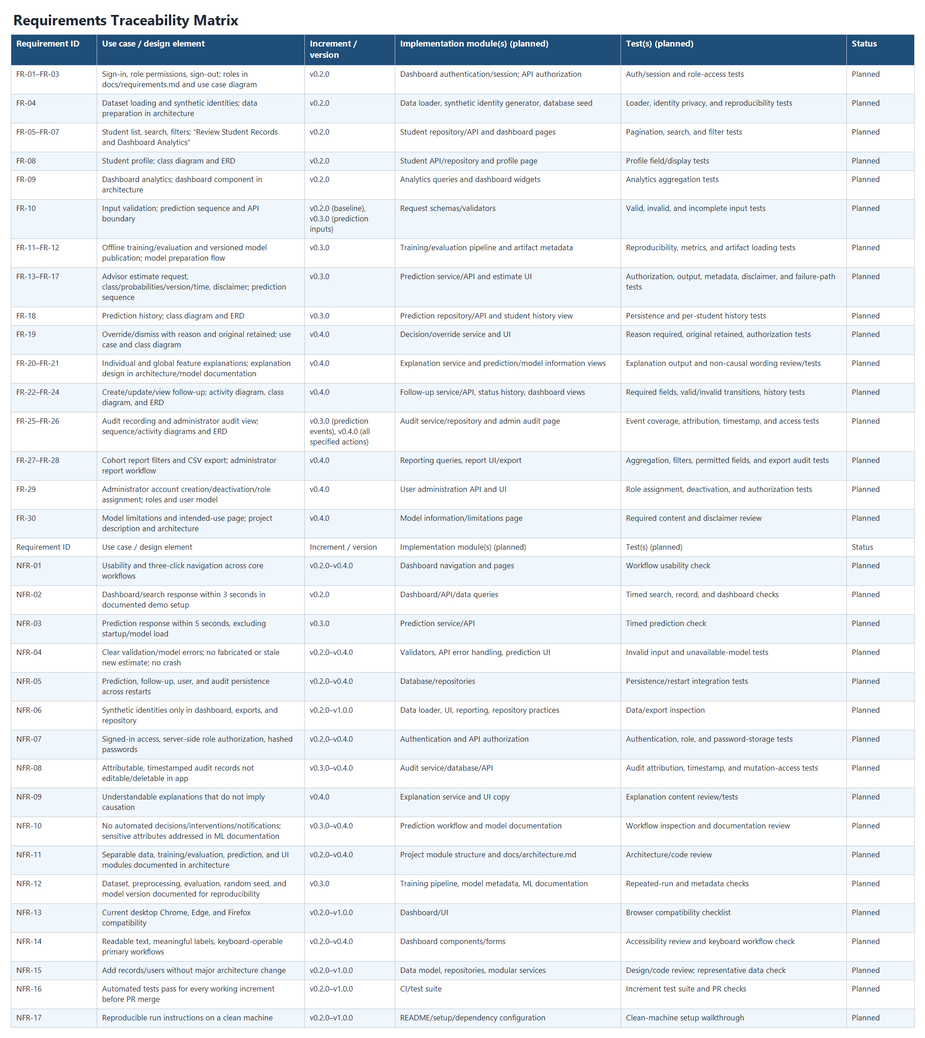
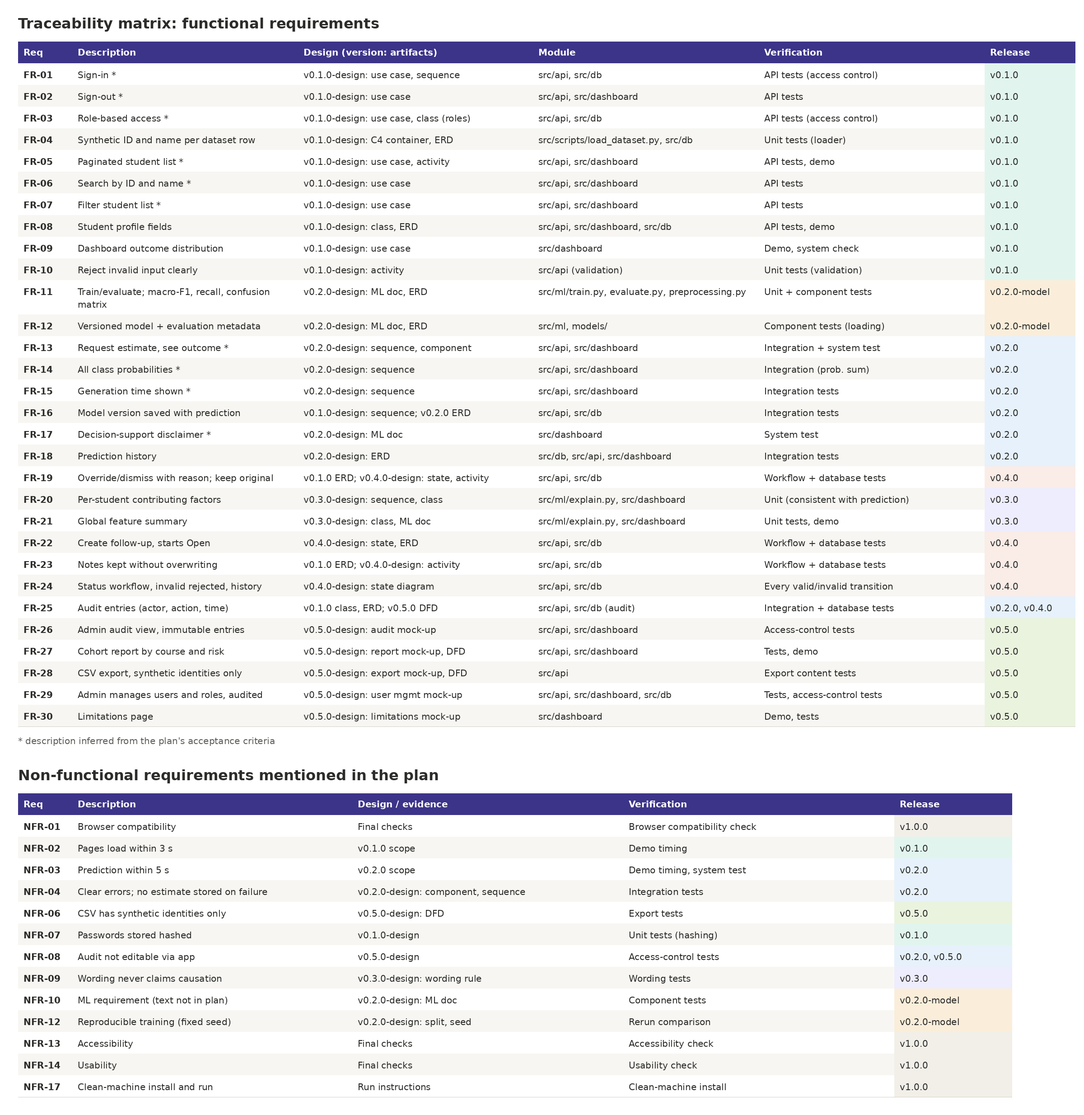
Incremental development and traceability matrix fixed

diff --git a/docs/incremental_development_plan.md b/docs/incremental_development_plan.md
@@ -1,48 +1,136 @@
 # Incremental Development Plan
 
-**Project:** AI Student Success and Dropout-Risk Support System (Group 02)  
-**Planning basis:** project brief, `docs/requirements.md`, `docs/architecture.md`, `docs/use_cases.md`, and the existing UML/design artifacts.
+Plan table
 
-**Visual plan:** [Mermaid diagram source](../uml/incremental_development_plan.mmd).
-
-This is a staged implementation plan. The design increment is already represented by committed planning/design artifacts; application increments below are planned and must not be marked complete until implemented and reviewed. Each implementation increment is expected to have automated tests that pass before its pull request is merged (NFR-16).
-
-| Version | Type | Capacity / Scope | Deliverable / Evidence | Requirements / Design Links |
+| Version | Type | Capability / Scope | Deliverable / Evidence | Requirements / Design Links |
 |---|---|---|---|---|
-| v0.1.0-design | Design baseline | Define scope, actors, requirements, architecture, data model, key workflows, and initial traceability before implementation. | `docs/project_description.md`, `docs/requirements.md`, `docs/architecture.md`, `docs/use_cases.md`; C4, use case, sequence, activity, class, and ERD sources under `uml/`. | FR-01–FR-30; NFR-01, NFR-04–NFR-12, NFR-15–NFR-17; `docs/traceability_matrix.md`; `uml/c4_context.drawio`, `uml/c4_container.drawio`, `uml/use_case.puml`, `uml/sequence_diagram.puml`, `uml/activity_diagram.puml`, `uml/class_diagram.drawio`, `uml/erd.drawio`. |
-| v0.2.0-data-dashboard | Working increment 1: student data and dashboard | Establish runnable app, documented setup, demo sign-in/roles, synthetic data loading, student list/search/filter/profile, and baseline outcome analytics. No live student data. | Runnable dashboard; documented data preparation/loading script and synthetic identity generation; database schema and seed/demo data; automated tests and setup notes. | FR-01–FR-10; NFR-01, NFR-02, NFR-05–NFR-07, NFR-11, NFR-13–NFR-17; `docs/architecture.md` dashboard/API/database; class diagram and ERD; use case “Review Student Records and Dashboard Analytics.” |
-| v0.3.0-prediction | Working increment 2: prediction service | Reproducible offline training/evaluation, versioned model publication, advisor-only estimate request, probabilities, generation time, model version, history, and visible decision-support notice. Handle invalid input or unavailable model safely. | Training/evaluation scripts and documented dataset/preprocessing/seed; evaluation report (macro-F1, per-class recall, confusion matrix); versioned model metadata; prediction API/UI; persisted history; automated tests. | FR-11–FR-18; NFR-03–NFR-04, NFR-07–NFR-08, NFR-10–NFR-12, NFR-16–NFR-17; prediction sequence diagram; `docs/architecture.md` model preparation and prediction service. |
-| v0.4.0-support-reporting | Working increment 3: explanations, follow-up, administration, and reports | Individual and global explanations; advisor override/dismiss with reason; follow-up creation/status/history; administrator cohort reports, CSV export, account management, audit log, and limitations page. | End-to-end workflows; documented explanation method and limitations; persisted audit/follow-up records; report export; role checks; automated tests and demonstration evidence. | FR-19–FR-30; NFR-01, NFR-04–NFR-10, NFR-13–NFR-17; use cases and activity diagram; class diagram/ERD; `docs/architecture.md`. |
-| v1.0.0-course-demo | Release / integration | Integrate the three working increments, resolve defects, verify traceability, prepare reproducible clean-machine setup and final demonstration/report. | Tagged release; final report and test evidence; installation/run instructions; reviewed requirements-to-design/code/test traceability; demo using synthetic identities only. | All FR-01–FR-30 and NFR-01–NFR-17; all design artifacts; `docs/testing.md`, `docs/report.md`, README. |
+| v0.1.0-design | Design | Context, containers, roles, data model, use cases | C4 L1/L2, use cases, sequence, activity, class, ERD; prompt records | FR-01..FR-10, FR-25; [uml/](../uml/), [use_cases.md](use_cases.md) |
+| v0.1.0 | Working | Data loading, synthetic identities, sign-in and roles, student list, search, filter, profile, dashboard charts | Code, unit and API tests, demo | FR-01..FR-10; `src/scripts`, `src/db`, `src/api`, `src/dashboard`; `tests/` |
+| v0.2.0-design | Design | ML pipeline and prediction service | ML documentation, component and sequence updates, ERD update | FR-11..FR-18, NFR-10, NFR-12; `ml_documentation.md`, `uml/` |
+| v0.2.0-model | Working | Training, evaluation, versioned model file and metadata | Model files, evaluation report, unit and component tests | FR-11, FR-12, NFR-10, NFR-12; `src/ml`, `models/`; `tests/` |
+| v0.2.0 | Working | Prediction API, estimate display, probabilities, model version, disclaimer, history, audit foundation | Code, integration tests, demo | FR-13..FR-18, FR-25 (start), NFR-03, NFR-04; `src/api`, `src/dashboard`; `tests/` |
+| v0.3.0-design | Design | Explanation module | Sequence and class updates, method choice | FR-20, FR-21, NFR-09; `uml/` |
+| v0.3.0 | Working | Per-student contributing factors, global feature summary | Code, tests, demo | FR-20, FR-21, NFR-09; `src/ml/explain.py`; `tests/` |
+| v0.4.0-design | Design | Follow-up workflow and estimate override | State diagram, activity update, ERD update | FR-19, FR-22..FR-24; `uml/` |
+| v0.4.0 | Working | Follow-up actions, notes, status workflow, override or dismiss, audit of changes | Code, workflow and database tests, demo | FR-19, FR-22..FR-25; `src/api`, `src/db`; `tests/` |
+| v0.5.0-design | Design | Reports, export, user management, limitations page | Report mock-ups, DFD, deployment view | FR-25..FR-30; `uml/` |
+| v0.5.0 | Working | Cohort reports, CSV export, user accounts, audit log view, limitations page | Code, tests, demo | FR-25..FR-30; `src/api`, `src/dashboard`; `tests/` |
+| v1.0.0 | Final | Integrated, documented release | Final diagrams, end-to-end tests, run instructions, report | All FR and NFR; full traceability matrix |
 
-## Increment acceptance and status
+## Increment details
 
-- **Current status:** design baseline documented; implementation increments are planned. This plan does not claim that the application increments have been implemented.
-- For each working increment, update the traceability matrix with actual module paths and test identifiers, run its automated tests, record review findings, and link the merged work or release evidence.
-- Keep the raw UCI dataset and real student personal data out of the repository. Use only synthetic identities in the application and demonstration outputs.
-- Keep estimates as decision support. They must not trigger automated student decisions, interventions, or notifications.
-- If implementation scope or architecture changes, update this plan, requirements-to-design links, and related diagrams together.
+### v0.1.0-design: Context, containers, roles, data model, use cases
 
+- **Tools:** draw.io, PlantUML, the coding agent for drafting (prompts recorded).
+- **Deliverables:** `uml/c4_context.drawio`, `uml/c4_container.drawio`, `uml/use_case.puml`, `uml/sequence_diagram.puml`, `uml/activity_diagram.puml`, `uml/class_diagram.drawio`, `uml/erd.drawio`, `docs/use_cases.md`, `docs/architecture.md`, `prompts/v0.1.0-design-*.md`.
+- **Acceptance criteria:**
+  - Class diagram and ERD show **multiplicities** on every association, and the enumerations are defined.
+  - Prediction stores the **overridden outcome** (FR-19), notes can be kept without overwriting (FR-23), and the model's confusion matrix has a field (FR-11).
+  - Use case diagram includes the Data/ML Engineer (development-time) with the load-dataset and train-and-publish use cases, or `use_cases.md` states why not.
+  - Sequence diagram saves the model version with each prediction (FR-16).
+  - `traceability_matrix.md` links FR-01 to FR-30 to design elements.
+  - Prompt records and AI log rows exist, with a reviewer other than the prompt author.
+  - Pull request reviewed and merged, and `v0.1.0-design` is tagged on the merged commit.
 
+### v0.1.0: Data, identities, sign-in, records, dashboard basics
+- **Tools:** Coding agent, Python, SQLite, FastAPI, Streamlit, pytest.
+- **Deliverables:** database schema creation, `src/scripts/load_dataset.py`, authentication and role checks, student list, search, filter, profile, summary charts, `prompts/v0.1.0-*.md`.
+- **Acceptance criteria:**
+  - The loading script reads the UCI CSV and creates one student record per row with a synthetic ID and name (FR-04). The raw dataset is not committed.
+  - Sign-in, sign-out, and role-based access work, and passwords are stored hashed (FR-01 to FR-03, NFR-07).
+  - List is paginated, search works by ID and name, and filters work (FR-05 to FR-07).
+  - Profile shows enrollment, academic, and demographic fields (FR-08). Dashboard shows outcome distribution (FR-09).
+  - Invalid input is rejected with a clear message (FR-10).
+  - Unit tests (validation, password hashing, loader) and API tests (access control) pass.
+  - Pages load within 3 seconds in the demo setup (NFR-02).
 
-## Mermaid Diagram
+### v0.2.0-design: ML pipeline and prediction service
+- **Tools:** draw.io or PlantUML, `docs/ml_documentation.md`.
+- **Deliverables:** `docs/ml_documentation.md` (dataset and license, target, preprocessing, split and validation strategy, metrics, how predictions are exposed, handling of sensitive attributes), updated component and sequence diagrams, ERD update (model version metadata).
+- **Acceptance criteria:**
+  - ML documentation covers every item in Section 5.5 of the course instructions.
+  - Documented choice of baseline and stronger model, stratified split, random seed, and metrics (macro-F1, per-class recall, confusion matrix).
+  - Handling of sensitive attributes (gender, nationality, marital status, age at enrollment) is stated.
+  - Diagrams show where the model is loaded and how failures are reported (NFR-04).
 
-The following flowchart summarizes the planned increments. The release and integration stage follows the three working increments.
+### v0.2.0-model: Trained and evaluated model
 
-```mermaid
-flowchart LR
-    design["v0.1.0 — Design baseline<br/><br/>Scope: requirements, architecture, data model, workflows<br/><br/>Evidence: project docs, C4/UML, class model, ERD<br/><br/>FR-01–FR-30; selected NFRs"]
-    dashboard["v0.2.0 — Student data and dashboard<br/><br/>Scope: demo roles, synthetic records, search, filters, profiles, analytics<br/><br/>Evidence: dashboard, loader, schema, setup, automated tests<br/><br/>FR-01–FR-10; NFR-01, 02, 05–07, 11, 13–17"]
-    prediction["v0.3.0 — Prediction service<br/><br/>Scope: reproducible model, versioned estimates, probabilities, history, disclaimer<br/><br/>Evidence: training/evaluation, metrics, model metadata, UI/API, tests<br/><br/>FR-11–FR-18; NFR-03–04, 07–08, 10–12, 16–17"]
-    support["v0.4.0 — Explanations, follow-up, and reporting<br/><br/>Scope: explanations, override, follow-up, audit, reports, CSV, users, limitations<br/><br/>Evidence: end-to-end workflows, persisted records, role checks, tests<br/><br/>FR-19–FR-30; NFR-01, 04–10, 13–17"]
-    release["v1.0.0 — Integrated course demo<br/><br/>Scope: integration, defect fixes, traceability, clean-machine setup, final demo<br/><br/>Evidence: tagged release, report, test results, setup instructions<br/><br/>All FR-01–FR-30 and NFR-01–NFR-17"]
-    guardrails["Planning guardrails<br/>v0.2.0–v1.0.0 are planned, not completed<br/>Synthetic identities only; raw UCI data stays out of Git<br/>Estimates support human review only"]
-    design --> dashboard --> prediction --> support --> release
-    release -.-> guardrails
-    classDef increment fill:#438DD5,stroke:#3C7FC0,color:#FFFFFF,stroke-width:2px;
-    classDef final fill:#08427B,stroke:#073B6F,color:#FFFFFF,stroke-width:2px;
-    classDef note fill:#F4F4F4,stroke:#888888,color:#333333,stroke-width:1px;
-    class design,dashboard,prediction,support increment;
-    class release final;
-    class guardrails note;
-```
+- **Tools:** coding agent, scikit-learn, joblib, pytest.
+- **Deliverables:** `src/ml/preprocessing.py`, `train.py`, `evaluate.py`, versioned model file and metadata in `models/`, evaluation report (in `docs/ml_documentation.md` or `docs/model_evaluation.md`), `prompts/v0.2.0-model-*.md`.
+- **Acceptance criteria:**
+  - One command trains and evaluates the models with a fixed seed, and reruns give the same metrics (NFR-12).
+  - Baseline and stronger model are compared, with macro-F1, per-class recall (especially Dropout), and the confusion matrix reported (FR-11).
+  - The published model has a version ID and stored evaluation metadata (FR-12).
+  - Unit tests (preprocessing) and component tests (model loading, prediction output shape and probability sum) pass.
+
+### v0.2.0: Prediction API, estimate display, audit foundation
+
+- **Tools:** coding agent, FastAPI, Streamlit, pytest.
+- **Deliverables:** prediction endpoint and service, estimate screen, prediction history, audit log table and writer, `prompts/v0.2.0-*.md`.
+- **Acceptance criteria:**
+  - Advisor can request an estimate and see the outcome, all class probabilities, model version, generation time, and the decision-support disclaimer on every estimate (FR-13 to FR-17).
+  - Each estimate is stored and shown in the student's prediction history (FR-18).
+  - Prediction requests write an audit entry with actor, action, and time (FR-25, NFR-08).
+  - If input is invalid or the model is unavailable, the user sees a clear error and no estimate is stored or shown as new (NFR-04).
+  - A prediction completes within 5 seconds in the demo setup (NFR-03).
+  - Integration tests (API with database and model) and a system test of the main scenario pass.
+
+### v0.3.0-design: Explanation module
+
+- **Tools:** draw.io or PlantUML.
+- **Deliverables:** updated sequence and class diagrams, chosen explanation method (SHAP or feature importance) and its justification in `ml_documentation.md`.
+- **Acceptance criteria:** the explanation call is in the sequence diagram, the explainer class and its relation to the model are in the class diagram, and the wording rule from NFR-09 is stated.
+
+### v0.3.0: Contributing factors and global summary
+
+- **Tools:** coding agent, SHAP or scikit-learn, pytest.
+- **Deliverables:** `src/ml/explain.py`, factors on the student estimate screen, global feature summary page, `prompts/v0.3.0-*.md`.
+- **Acceptance criteria:**
+  - Each estimate shows its main contributing factors in plain language (FR-20, NFR-09).
+  - A global summary of the most important features is available (FR-21).
+  - Explanation output is consistent with the prediction it accompanies (tested).
+  - The wording does not claim that a factor causes the outcome.
+
+### v0.4.0-design: Follow-up workflow and override
+
+- **Tools:** draw.io or PlantUML.
+- **Deliverables:** state diagram (Open, In progress, Resolved, Closed), updated activity diagram, ERD and class updates if needed.
+- **Acceptance criteria:** allowed and rejected transitions are shown, override and dismissal flow is shown, and the original estimate stays on record.
+
+### v0.4.0: Follow-ups, notes, override, audit of changes
+
+- **Tools:** coding agent, FastAPI, SQLite, pytest.
+- **Deliverables:** follow-up create, update, and view; status history; override and dismiss with reason; audit entries; `prompts/v0.4.0-*.md`.
+- **Acceptance criteria:**
+  - Advisor creates a follow-up with type, note, assignee, and date, starting as Open, optionally linked to a prediction (FR-22).
+  - Notes and status changes follow the allowed transitions, invalid transitions are rejected, and history is kept (FR-23, FR-24).
+  - Override or dismissal requires a reason and keeps the original estimate (FR-19).
+  - Follow-up and override changes write audit entries (FR-25).
+  - Workflow tests (every valid and invalid transition) and database tests pass.
+
+### v0.5.0-design: Reports, export, user management, limitations
+
+- **Tools:** draw.io, PlantUML, mock-ups.
+- **Deliverables:** report mock-ups, DFD from dataset to prediction to report, deployment view, updated use cases if needed.
+- **Acceptance criteria:** mock-ups cover cohort report, export, user management, audit view, and limitations page, and the DFD shows no path where an estimate triggers an action automatically.
+
+### v0.5.0: Reports, export, accounts, audit view, limitations page
+- **Tools:** coding agent, FastAPI, Streamlit, pytest.
+- **Deliverables:** cohort report with filters, CSV export, user account management, audit log view, model limitations page, `prompts/v0.5.0-*.md`.
+- **Acceptance criteria:**
+  - Cohort report filters by course and risk level (FR-27). CSV export contains only synthetic identities (FR-28, NFR-06).
+  - Administrator can create, deactivate, and assign roles (FR-29), and these changes are audited.
+  - Administrator can view the audit log, and entries cannot be edited or deleted through the application (FR-26, NFR-08).
+  - Limitations page shows intended use, performance, known limitations, and the disclaimer (FR-30).
+  - Advisors cannot reach administrator functions (tested).
+
+### v1.0.0: Final integrated release
+- **Tools:** pytest, Pandoc (or another converter) for the PDF report.
+- **Deliverables:** final diagrams and rendered images, complete `testing.md`, `ai_development_log.md`, and `traceability_matrix.md`, run instructions, `report.md`, `se_report_group_02.pdf`.
+- **Acceptance criteria:**
+  - All selected requirements are implemented, and the main use cases work end to end.
+  - Diagrams match the final architecture and code.
+  - Every requirement traces to design, module, and test.
+  - Installation and run instructions work on a clean machine (NFR-17).
+  - Browser compatibility, accessibility, and usability checks are done (NFR-01, NFR-13, NFR-14).
+  - Repository is tagged `v1.0.0`.

diff --git a/docs/traceability_matrix.md b/docs/traceability_matrix.md
@@ -1,51 +1,72 @@
-# Requirements Traceability Matrix
+# Traceability Matrix
 
-**Project:** AI Student Success and Dropout-Risk Support System (Group 02)  
-**Source of truth:** requirement IDs and wording in `docs/requirements.md`; design links refer to current documents/diagrams. Planned module and test names are targets, not claims of implemented code. Replace them with actual paths and test IDs as implementation proceeds.
+Derived from the Incremental Development Plan. The plan only gives requirement **ranges** for some items (for example FR-13 to FR-17), so individual descriptions marked with `*` are inferred from the acceptance criteria. Replace them with the exact wording from your requirements document. Test entries are planned test types from the plan, not file names; fill in real test IDs as you write them.
 
 ## Functional requirements
 
-| Requirement ID | Use case / design element | Increment / version | Implementation module(s) (planned) | Test(s) (planned) | Status |
+| Req | Description | Design version / artifacts | Implementation (module) | Verification (planned test) | Release |
 |---|---|---|---|---|---|
-| FR-01–FR-03 | Sign-in, role permissions, sign-out; roles in `docs/requirements.md` and use case diagram | v0.2.0 | Dashboard authentication/session; API authorization | Auth/session and role-access tests | Planned |
-| FR-04 | Dataset loading and synthetic identities; data preparation in architecture | v0.2.0 | Data loader, synthetic identity generator, database seed | Loader, identity privacy, and reproducibility tests | Planned |
-| FR-05–FR-07 | Student list, search, filters; “Review Student Records and Dashboard Analytics” | v0.2.0 | Student repository/API and dashboard pages | Pagination, search, and filter tests | Planned |
-| FR-08 | Student profile; class diagram and ERD | v0.2.0 | Student API/repository and profile page | Profile field/display tests | Planned |
-| FR-09 | Dashboard analytics; dashboard component in architecture | v0.2.0 | Analytics queries and dashboard widgets | Analytics aggregation tests | Planned |
-| FR-10 | Input validation; prediction sequence and API boundary | v0.2.0 (baseline), v0.3.0 (prediction inputs) | Request schemas/validators | Valid, invalid, and incomplete input tests | Planned |
-| FR-11–FR-12 | Offline training/evaluation and versioned model publication; model preparation flow | v0.3.0 | Training/evaluation pipeline and artifact metadata | Reproducibility, metrics, and artifact loading tests | Planned |
-| FR-13–FR-17 | Advisor estimate request, class/probabilities/version/time, disclaimer; prediction sequence | v0.3.0 | Prediction service/API and estimate UI | Authorization, output, metadata, disclaimer, and failure-path tests | Planned |
-| FR-18 | Prediction history; class diagram and ERD | v0.3.0 | Prediction repository/API and student history view | Persistence and per-student history tests | Planned |
-| FR-19 | Override/dismiss with reason and original retained; use case and class diagram | v0.4.0 | Decision/override service and UI | Reason required, original retained, authorization tests | Planned |
-| FR-20–FR-21 | Individual and global feature explanations; explanation design in architecture/model documentation | v0.4.0 | Explanation service and prediction/model information views | Explanation output and non-causal wording review/tests | Planned |
-| FR-22–FR-24 | Create/update/view follow-up; activity diagram, class diagram, and ERD | v0.4.0 | Follow-up service/API, status history, dashboard views | Required fields, valid/invalid transitions, history tests | Planned |
-| FR-25–FR-26 | Audit recording and administrator audit view; sequence/activity diagrams and ERD | v0.3.0 (prediction events), v0.4.0 (all specified actions) | Audit service/repository and admin audit page | Event coverage, attribution, timestamp, and access tests | Planned |
-| FR-27–FR-28 | Cohort report filters and CSV export; administrator report workflow | v0.4.0 | Reporting queries, report UI/export | Aggregation, filters, permitted fields, and export audit tests | Planned |
-| FR-29 | Administrator account creation/deactivation/role assignment; roles and user model | v0.4.0 | User administration API and UI | Role assignment, deactivation, and authorization tests | Planned |
-| FR-30 | Model limitations and intended-use page; project description and architecture | v0.4.0 | Model information/limitations page | Required content and disclaimer review | Planned |
+| FR-01 | Sign-in * | v0.1.0-design: `use_case.puml`, `sequence_diagram.puml`, `use_cases.md` | `src/api`, `src/db` | API tests (access control) | v0.1.0 |
+| FR-02 | Sign-out * | v0.1.0-design: `use_case.puml`, `use_cases.md` | `src/api`, `src/dashboard` | API tests | v0.1.0 |
+| FR-03 | Role-based access * | v0.1.0-design: `use_case.puml`, `class_diagram.drawio` (roles, enums) | `src/api`, `src/db` | API tests (access control) | v0.1.0 |
+| FR-04 | One student record per dataset row with synthetic ID and name | v0.1.0-design: `c4_container.drawio`, `erd.drawio` | `src/scripts/load_dataset.py`, `src/db` | Unit tests (loader) | v0.1.0 |
+| FR-05 | Paginated student list * | v0.1.0-design: `use_case.puml`, `activity_diagram.puml` | `src/api`, `src/dashboard` | API tests, demo | v0.1.0 |
+| FR-06 | Search by ID and name * | v0.1.0-design: `use_case.puml` | `src/api`, `src/dashboard` | API tests | v0.1.0 |
+| FR-07 | Filter student list * | v0.1.0-design: `use_case.puml` | `src/api`, `src/dashboard` | API tests | v0.1.0 |
+| FR-08 | Student profile (enrollment, academic, demographic fields) | v0.1.0-design: `class_diagram.drawio`, `erd.drawio` | `src/api`, `src/dashboard`, `src/db` | API tests, demo | v0.1.0 |
+| FR-09 | Dashboard outcome distribution | v0.1.0-design: `use_case.puml` | `src/dashboard` | Demo, system check | v0.1.0 |
+| FR-10 | Reject invalid input with clear message | v0.1.0-design: `activity_diagram.puml` | `src/api` (validation) | Unit tests (validation) | v0.1.0 |
+| FR-11 | Train and evaluate models; macro-F1, per-class recall, confusion matrix | v0.2.0-design: `ml_documentation.md`, `erd.drawio` (confusion matrix field) | `src/ml/train.py`, `evaluate.py`, `preprocessing.py` | Unit tests (preprocessing), component tests | v0.2.0-model |
+| FR-12 | Versioned model file with stored evaluation metadata | v0.2.0-design: `ml_documentation.md`, ERD update (model version metadata) | `src/ml`, `models/` | Component tests (model loading) | v0.2.0-model |
+| FR-13 | Advisor requests an estimate and sees the outcome * | v0.2.0-design: `sequence_diagram.puml`, component diagram | `src/api` (prediction endpoint), `src/dashboard` | Integration tests, system test | v0.2.0 |
+| FR-14 | All class probabilities shown * | v0.2.0-design: `sequence_diagram.puml` | `src/api`, `src/dashboard` | Integration tests (probability sum) | v0.2.0 |
+| FR-15 | Generation time shown * | v0.2.0-design: `sequence_diagram.puml` | `src/api`, `src/dashboard` | Integration tests | v0.2.0 |
+| FR-16 | Model version saved and shown with each prediction | v0.1.0-design: `sequence_diagram.puml`; v0.2.0-design: ERD update | `src/api`, `src/db` | Integration tests | v0.2.0 |
+| FR-17 | Decision-support disclaimer on every estimate * | v0.2.0-design: `ml_documentation.md` | `src/dashboard` | System test | v0.2.0 |
+| FR-18 | Estimates stored and shown in prediction history | v0.2.0-design: `erd.drawio` | `src/db`, `src/api`, `src/dashboard` | Integration tests | v0.2.0 |
+| FR-19 | Override or dismiss estimate with reason; original estimate kept | v0.1.0-design: ERD (overridden outcome); v0.4.0-design: state and activity diagrams | `src/api`, `src/db` | Workflow and database tests | v0.4.0 |
+| FR-20 | Per-student contributing factors in plain language | v0.3.0-design: sequence and class diagrams, method choice | `src/ml/explain.py`, `src/dashboard` | Unit tests (explanation consistent with prediction) | v0.3.0 |
+| FR-21 | Global feature summary | v0.3.0-design: class diagram, `ml_documentation.md` | `src/ml/explain.py`, `src/dashboard` | Unit tests, demo | v0.3.0 |
+| FR-22 | Create follow-up (type, note, assignee, date), starting Open, optionally linked to a prediction | v0.4.0-design: state diagram, ERD update | `src/api`, `src/db` | Workflow and database tests | v0.4.0 |
+| FR-23 | Notes kept without overwriting | v0.1.0-design: ERD; v0.4.0-design: activity update | `src/api`, `src/db` | Workflow and database tests | v0.4.0 |
+| FR-24 | Status workflow (Open, In progress, Resolved, Closed); invalid transitions rejected; history kept | v0.4.0-design: state diagram | `src/api`, `src/db` | Workflow tests (every valid and invalid transition) | v0.4.0 |
+| FR-25 | Audit entries (actor, action, time) for predictions and changes | v0.1.0-design: `class_diagram.drawio`, `erd.drawio`; v0.5.0-design: DFD | `src/api`, `src/db` (audit table and writer) | Integration tests, database tests | v0.2.0 (start), v0.4.0 |
+| FR-26 | Administrator views audit log; entries cannot be edited or deleted | v0.5.0-design: audit view mock-up | `src/api`, `src/dashboard` | Access-control tests | v0.5.0 |
+| FR-27 | Cohort report filtered by course and risk level | v0.5.0-design: report mock-up, DFD | `src/api`, `src/dashboard` | Tests, demo | v0.5.0 |
+| FR-28 | CSV export with synthetic identities only | v0.5.0-design: export mock-up, DFD | `src/api` | Tests (export content) | v0.5.0 |
+| FR-29 | Administrator creates, deactivates, assigns roles; changes audited | v0.5.0-design: user management mock-up | `src/api`, `src/dashboard`, `src/db` | Tests, access-control tests | v0.5.0 |
+| FR-30 | Limitations page (intended use, performance, limitations, disclaimer) | v0.5.0-design: limitations page mock-up | `src/dashboard` | Demo, tests | v0.5.0 |
 
-## Non-functional requirements
+## Non-functional requirements mentioned in the plan
 
-| Requirement ID | Use case / design element | Increment / version | Implementation module(s) (planned) | Test(s) (planned) | Status |
-|---|---|---|---|---|---|
-| NFR-01 | Usability and three-click navigation across core workflows | v0.2.0–v0.4.0 | Dashboard navigation and pages | Workflow usability check | Planned |
-| NFR-02 | Dashboard/search response within 3 seconds in documented demo setup | v0.2.0 | Dashboard/API/data queries | Timed search, record, and dashboard checks | Planned |
-| NFR-03 | Prediction response within 5 seconds, excluding startup/model load | v0.3.0 | Prediction service/API | Timed prediction check | Planned |
-| NFR-04 | Clear validation/model errors; no fabricated or stale new estimate; no crash | v0.2.0–v0.4.0 | Validators, API error handling, prediction UI | Invalid input and unavailable-model tests | Planned |
-| NFR-05 | Prediction, follow-up, user, and audit persistence across restarts | v0.2.0–v0.4.0 | Database/repositories | Persistence/restart integration tests | Planned |
-| NFR-06 | Synthetic identities only in dashboard, exports, and repository | v0.2.0–v1.0.0 | Data loader, UI, reporting, repository practices | Data/export inspection | Planned |
-| NFR-07 | Signed-in access, server-side role authorization, hashed passwords | v0.2.0–v0.4.0 | Authentication and API authorization | Authentication, role, and password-storage tests | Planned |
-| NFR-08 | Attributable, timestamped audit records not editable/deletable in app | v0.3.0–v0.4.0 | Audit service/database/API | Audit attribution, timestamp, and mutation-access tests | Planned |
-| NFR-09 | Understandable explanations that do not imply causation | v0.4.0 | Explanation service and UI copy | Explanation content review/tests | Planned |
-| NFR-10 | No automated decisions/interventions/notifications; sensitive attributes addressed in ML documentation | v0.3.0–v0.4.0 | Prediction workflow and model documentation | Workflow inspection and documentation review | Planned |
-| NFR-11 | Separable data, training/evaluation, prediction, and UI modules documented in architecture | v0.2.0–v0.4.0 | Project module structure and `docs/architecture.md` | Architecture/code review | Planned |
-| NFR-12 | Dataset, preprocessing, evaluation, random seed, and model version documented for reproducibility | v0.3.0 | Training pipeline, model metadata, ML documentation | Repeated-run and metadata checks | Planned |
-| NFR-13 | Current desktop Chrome, Edge, and Firefox compatibility | v0.2.0–v1.0.0 | Dashboard/UI | Browser compatibility checklist | Planned |
-| NFR-14 | Readable text, meaningful labels, keyboard-operable primary workflows | v0.2.0–v0.4.0 | Dashboard components/forms | Accessibility review and keyboard workflow check | Planned |
-| NFR-15 | Add records/users without major architecture change | v0.2.0–v1.0.0 | Data model, repositories, modular services | Design/code review; representative data check | Planned |
-| NFR-16 | Automated tests pass for every working increment before PR merge | v0.2.0–v1.0.0 | CI/test suite | Increment test suite and PR checks | Planned |
-| NFR-17 | Reproducible run instructions on a clean machine | v0.2.0–v1.0.0 | README/setup/dependency configuration | Clean-machine setup walkthrough | Planned |
+| Req | Description | Design / evidence | Verification | Release |
+|---|---|---|---|---|
+| NFR-01 | Browser compatibility | Final checks | Browser compatibility check | v1.0.0 |
+| NFR-02 | Pages load within 3 seconds in demo setup | v0.1.0 scope | Demo timing | v0.1.0 |
+| NFR-03 | Prediction completes within 5 seconds | v0.2.0 scope | Demo timing, system test | v0.2.0 |
+| NFR-04 | Clear error on invalid input or unavailable model; no estimate stored | v0.2.0-design: component and sequence diagrams (model loading, failures) | Integration tests | v0.2.0 |
+| NFR-06 | CSV export contains only synthetic identities | v0.5.0-design: DFD | Export tests | v0.5.0 |
+| NFR-07 | Passwords stored hashed | v0.1.0-design | Unit tests (password hashing) | v0.1.0 |
+| NFR-08 | Audit entries not editable or deletable through the app | v0.5.0-design | Access-control tests | v0.2.0 (foundation), v0.5.0 |
+| NFR-09 | Wording does not claim a factor causes the outcome | v0.3.0-design: wording rule stated | Tests on explanation wording | v0.3.0 |
+| NFR-10 | ML requirement (referenced for v0.2.0 design and model; text not in the plan) | v0.2.0-design: `ml_documentation.md` | Component tests | v0.2.0-model |
+| NFR-12 | Reproducible training (fixed seed, same metrics on rerun) | v0.2.0-design: split, seed, metrics documented | Rerun comparison | v0.2.0-model |
+| NFR-13 | Accessibility | Final checks | Accessibility check | v1.0.0 |
+| NFR-14 | Usability | Final checks | Usability check | v1.0.0 |
+| NFR-17 | Clean-machine installation and run instructions | Run instructions | Clean-machine install | v1.0.0 |
 
-## Design coverage note
+NFR-05, NFR-11, NFR-15 and NFR-16 are not referenced in the plan; add them from your requirements document.
 
-The use case, sequence, and activity diagram acceptance criteria call for diagram elements to trace to requirement IDs. The grouped mappings above provide requirement coverage by workflow; when implementing or revising individual diagram elements, add the relevant FR/NFR IDs to the diagram notes or corresponding use case description and keep this matrix aligned. Actual implementation paths and test identifiers remain to be filled in as code is created.
+## Release roll-up
+
+| Release | Requirements covered |
+|---|---|
+| v0.1.0-design | FR-01..FR-10, FR-25 (design) |
+| v0.1.0 | FR-01..FR-10; NFR-02, NFR-07 |
+| v0.2.0-design | FR-11..FR-18; NFR-04, NFR-10, NFR-12 |
+| v0.2.0-model | FR-11, FR-12; NFR-10, NFR-12 |
+| v0.2.0 | FR-13..FR-18, FR-25 (start); NFR-03, NFR-04, NFR-08 |
+| v0.3.0-design / v0.3.0 | FR-20, FR-21; NFR-09 |
+| v0.4.0-design / v0.4.0 | FR-19, FR-22..FR-25 |
+| v0.5.0-design / v0.5.0 | FR-25..FR-30; NFR-06, NFR-08 |
+| v1.0.0 | All FR and NFR; NFR-01, NFR-13, NFR-14, NFR-17 |
